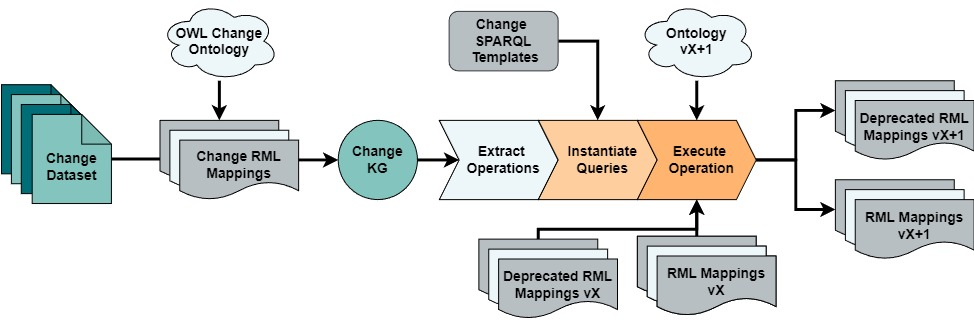
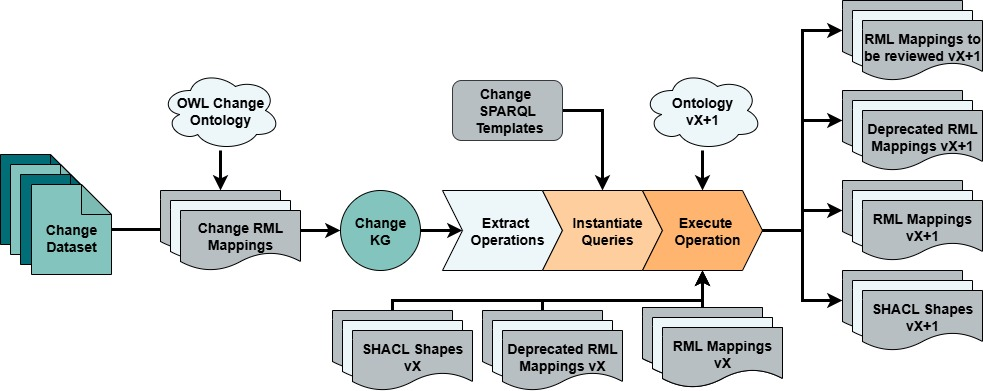
Updated ReadMe

diff --git a/README.md b/README.md
@@ -1,32 +1,37 @@
-# OCP2KG: Ontology Change Propagation to Knowledge Graphs
-![GitHub](https://img.shields.io/github/license/oeg-dataintegration/ocp2kg?style=flat)
+# OntoRipple: A Tool to Propagate Changes to Semantic Artifacts.
+![GitHub](https://github.com/oeg-upm/OntoRipple/tree/main)
 [![DOI](https://zenodo.org/badge/690501188.svg)](https://zenodo.org/doi/10.5281/zenodo.11244236)
 ![GitHub Release](https://img.shields.io/github/v/release/oeg-upm/ocp2kg)
 
 
-OCP2KG is a tool for propagating ontology changes to declarative mappings. 
-The tool requires as input the updated 
-version of the ontology in OWL, the outdated mappings in RML, and the change data, that has to be in 
-RDF following the [OWL Change Ontology](https://w3id.org/def/och) model.  
+OntoRipple is a tool for propagating ontology changes to declarative mappings in [RML](https://kg-construct.github.io/rml-resources/portal/), and validation shapes in [SHACL](https://www.w3.org/TR/shacl/).  The tool requires as input the updated version of the ontology in OWL, the outdated mappings in RML if there are, the outdated shapes in SHACL if there are, and the change data, that has to be in RDF, and compliant with the [OWL Change Ontology](https://w3id.org/def/och) model.  
 
 # How to run it?
 
 ```bash
-python3 -m pip install ocp2kg
-python3 -m ocp2kg -c path_to_change_kg.nt -m path_to_old_mapping.rml.ttl -o path_to_new_ontology.ttl -n path_output_mappings.rml.ttl
+python3 -m pip install ontoripple
+python3 -m ontoripple -c path_to_change_kg.nt -m path_to_old_mapping.rml.ttl -s path_to_old_shapes -o path_to_new_ontology.ttl -nm path_output_mappings.rml.ttl -nsh path_output_shapes.sh
 ```
 
 Options:
 ````
 -c, --changes_kg_path <arg>        Path to a change KG compliant with OCH
 -m, --old_mapping_path <arg>       Path to the old mapping rules (previous version) in RML
+-s, --old_shacl_path <arg>         Path to the old validation shapes (previous version) in SHACL
 -o, --ontology_path <arg>          Path to the new version of the ontology
--n, --new_mappings_path <arg>      Path to the output files, updated version of the mapping rules
+-nm, --new_mappings_path <arg>     Path to the output files, updated version of the mapping rules
+-nsh, --new_shapes_path <arg>      Path to the output files, updated version of the mapping rules
 -y, --yarrrml                      Output mappings will be also translated to YARRRML (RML turtle by default)
 ````
 
+# How to run the examples.
+This software tool is motivated by the Public Procurement Data Space, and the eProcurement Ontology. Within the [PPDS folder](examples/ppds/3.0.0-3.0.1_example/) there is the data corresponding to the changes between the 3.0.0 and 3.0.1 versions of the ontology: the change data, the outdated and updated mappings, and the outdated and updated shapes. The code for generating the updated mappings and shapes is the following:
+```bash
+python3 -m ontoripple -c ./change_data_3.0.1.nt -m ./ePO_mappings.rml.ttl -s ./ePO_shacl_shapes_3.0.0.rdf -o ./ePO_owl_core_3.0.1.rdf -nm ./updated_mappings.ttl -nsh ./updated_shapes.ttl
+```
+
 # Architecture
-![OCP2KG Architecture](misc/arqui.jpg?raw=true "OCP2KG Architecture")
+![OntoRipple Architecture](misc/arqui.jpg?raw=true "OntoRipple Architecture")
 
 # Authors
 - Diego Conde Herreros (OEG-UPM) - main contact  diego.conde.herreros at upm.es
